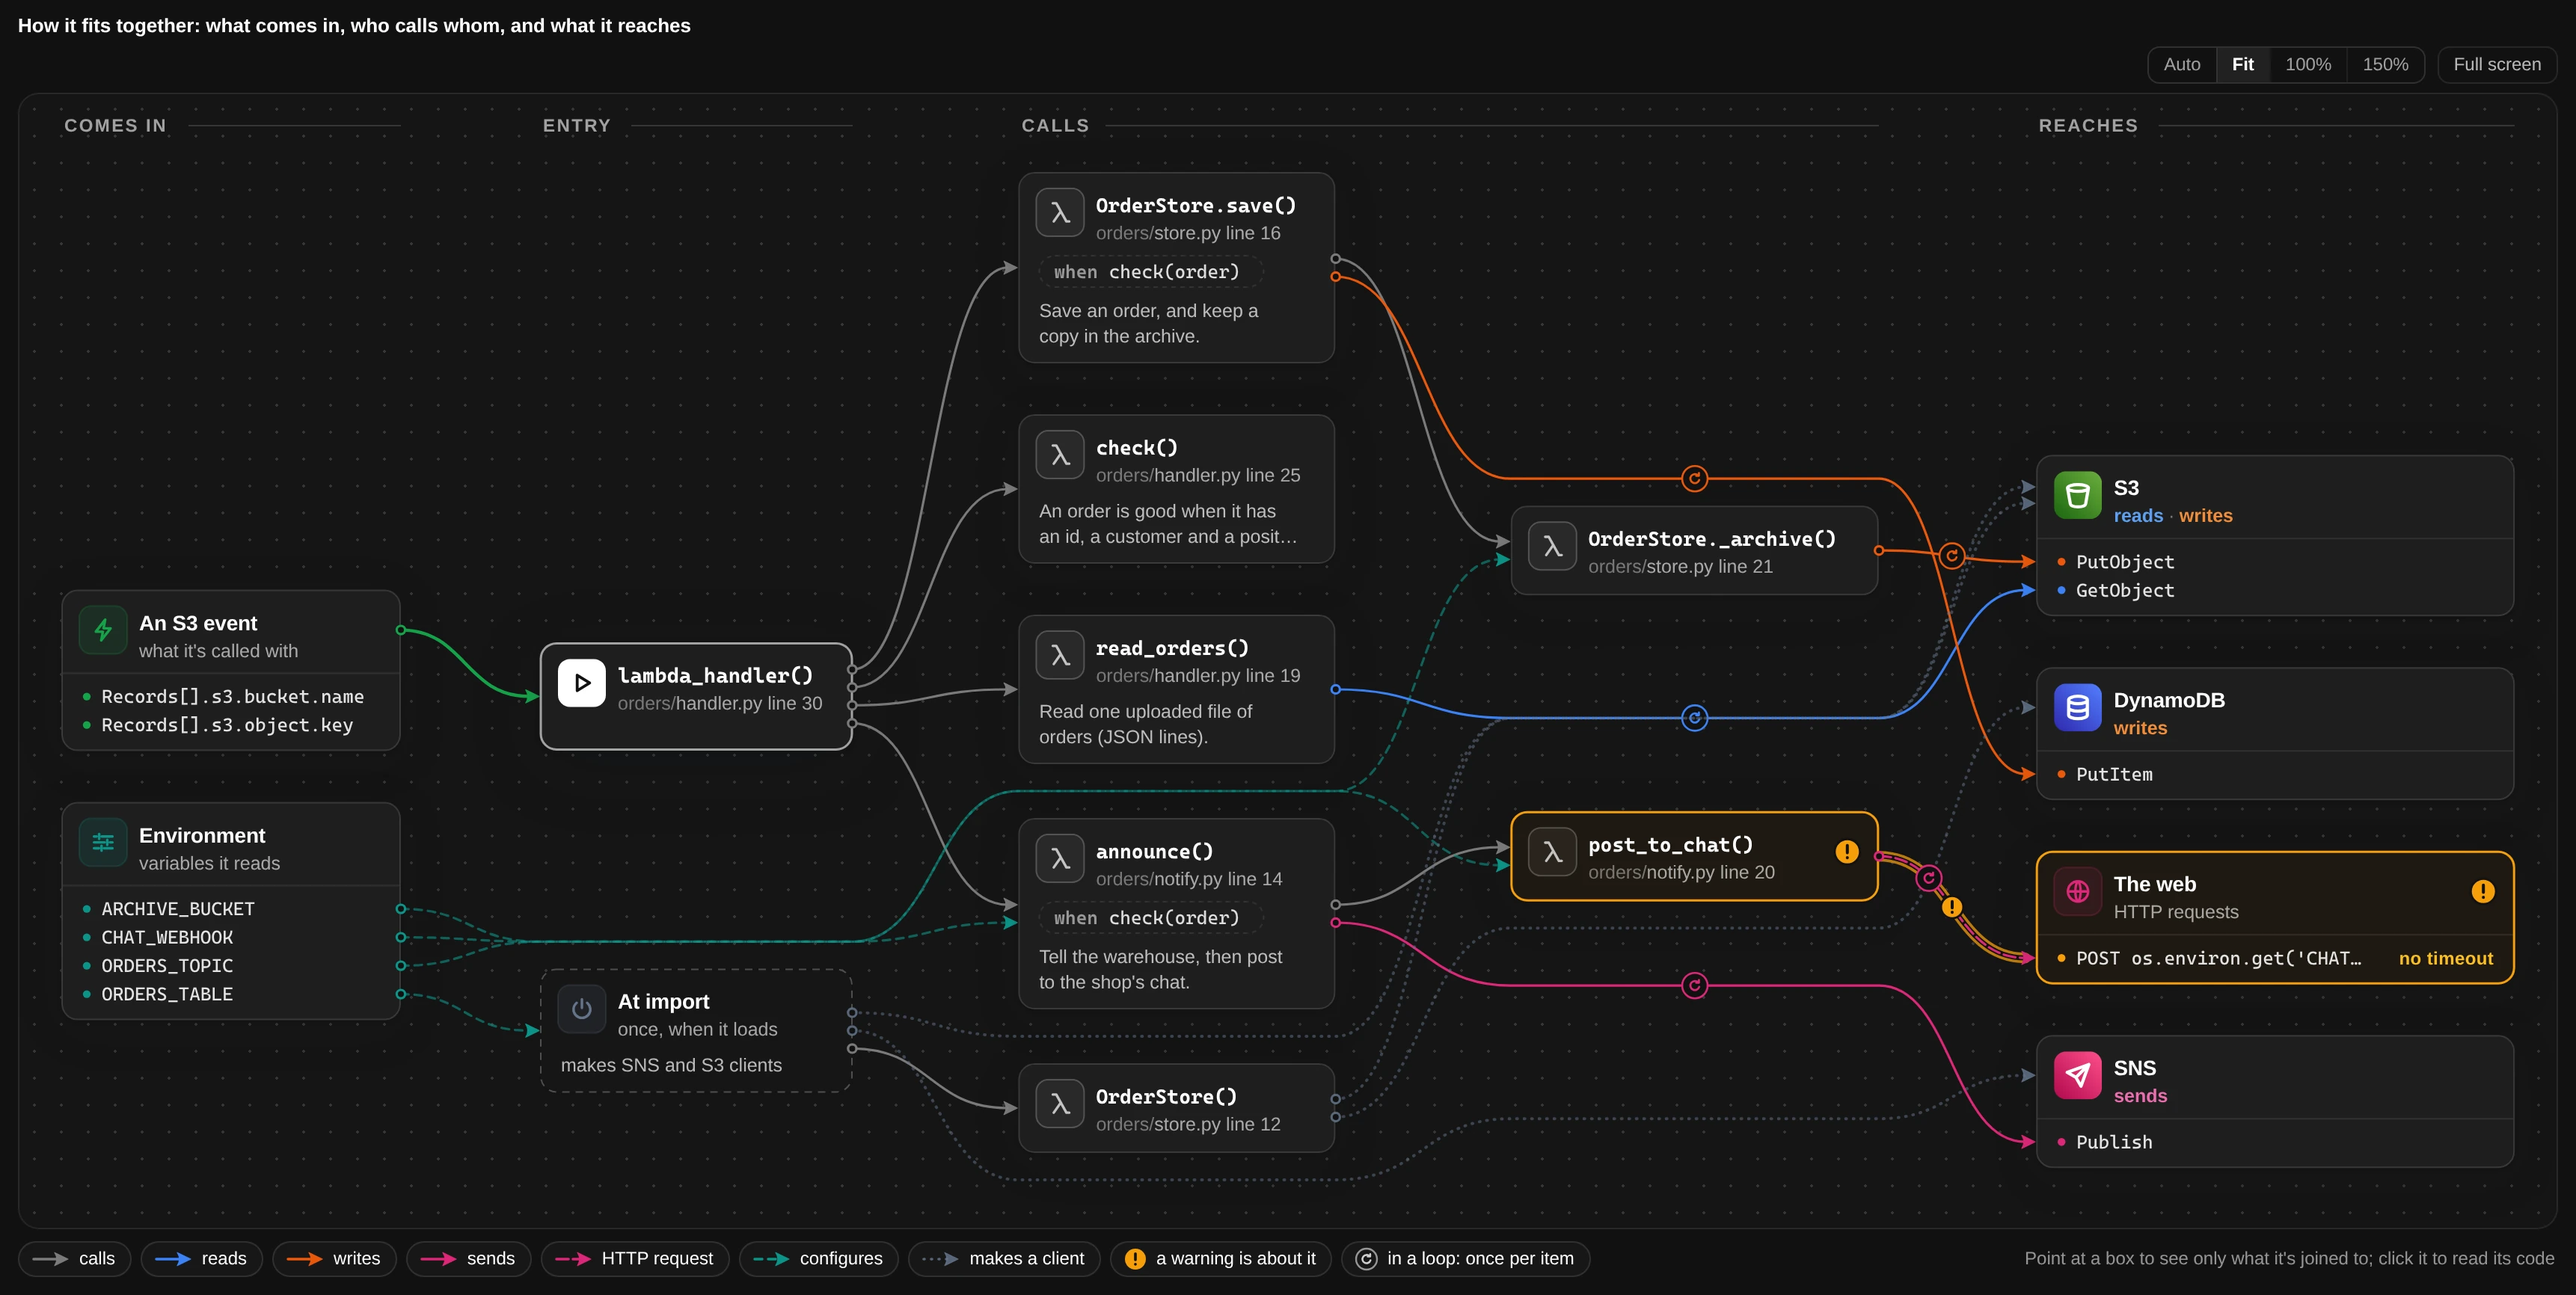
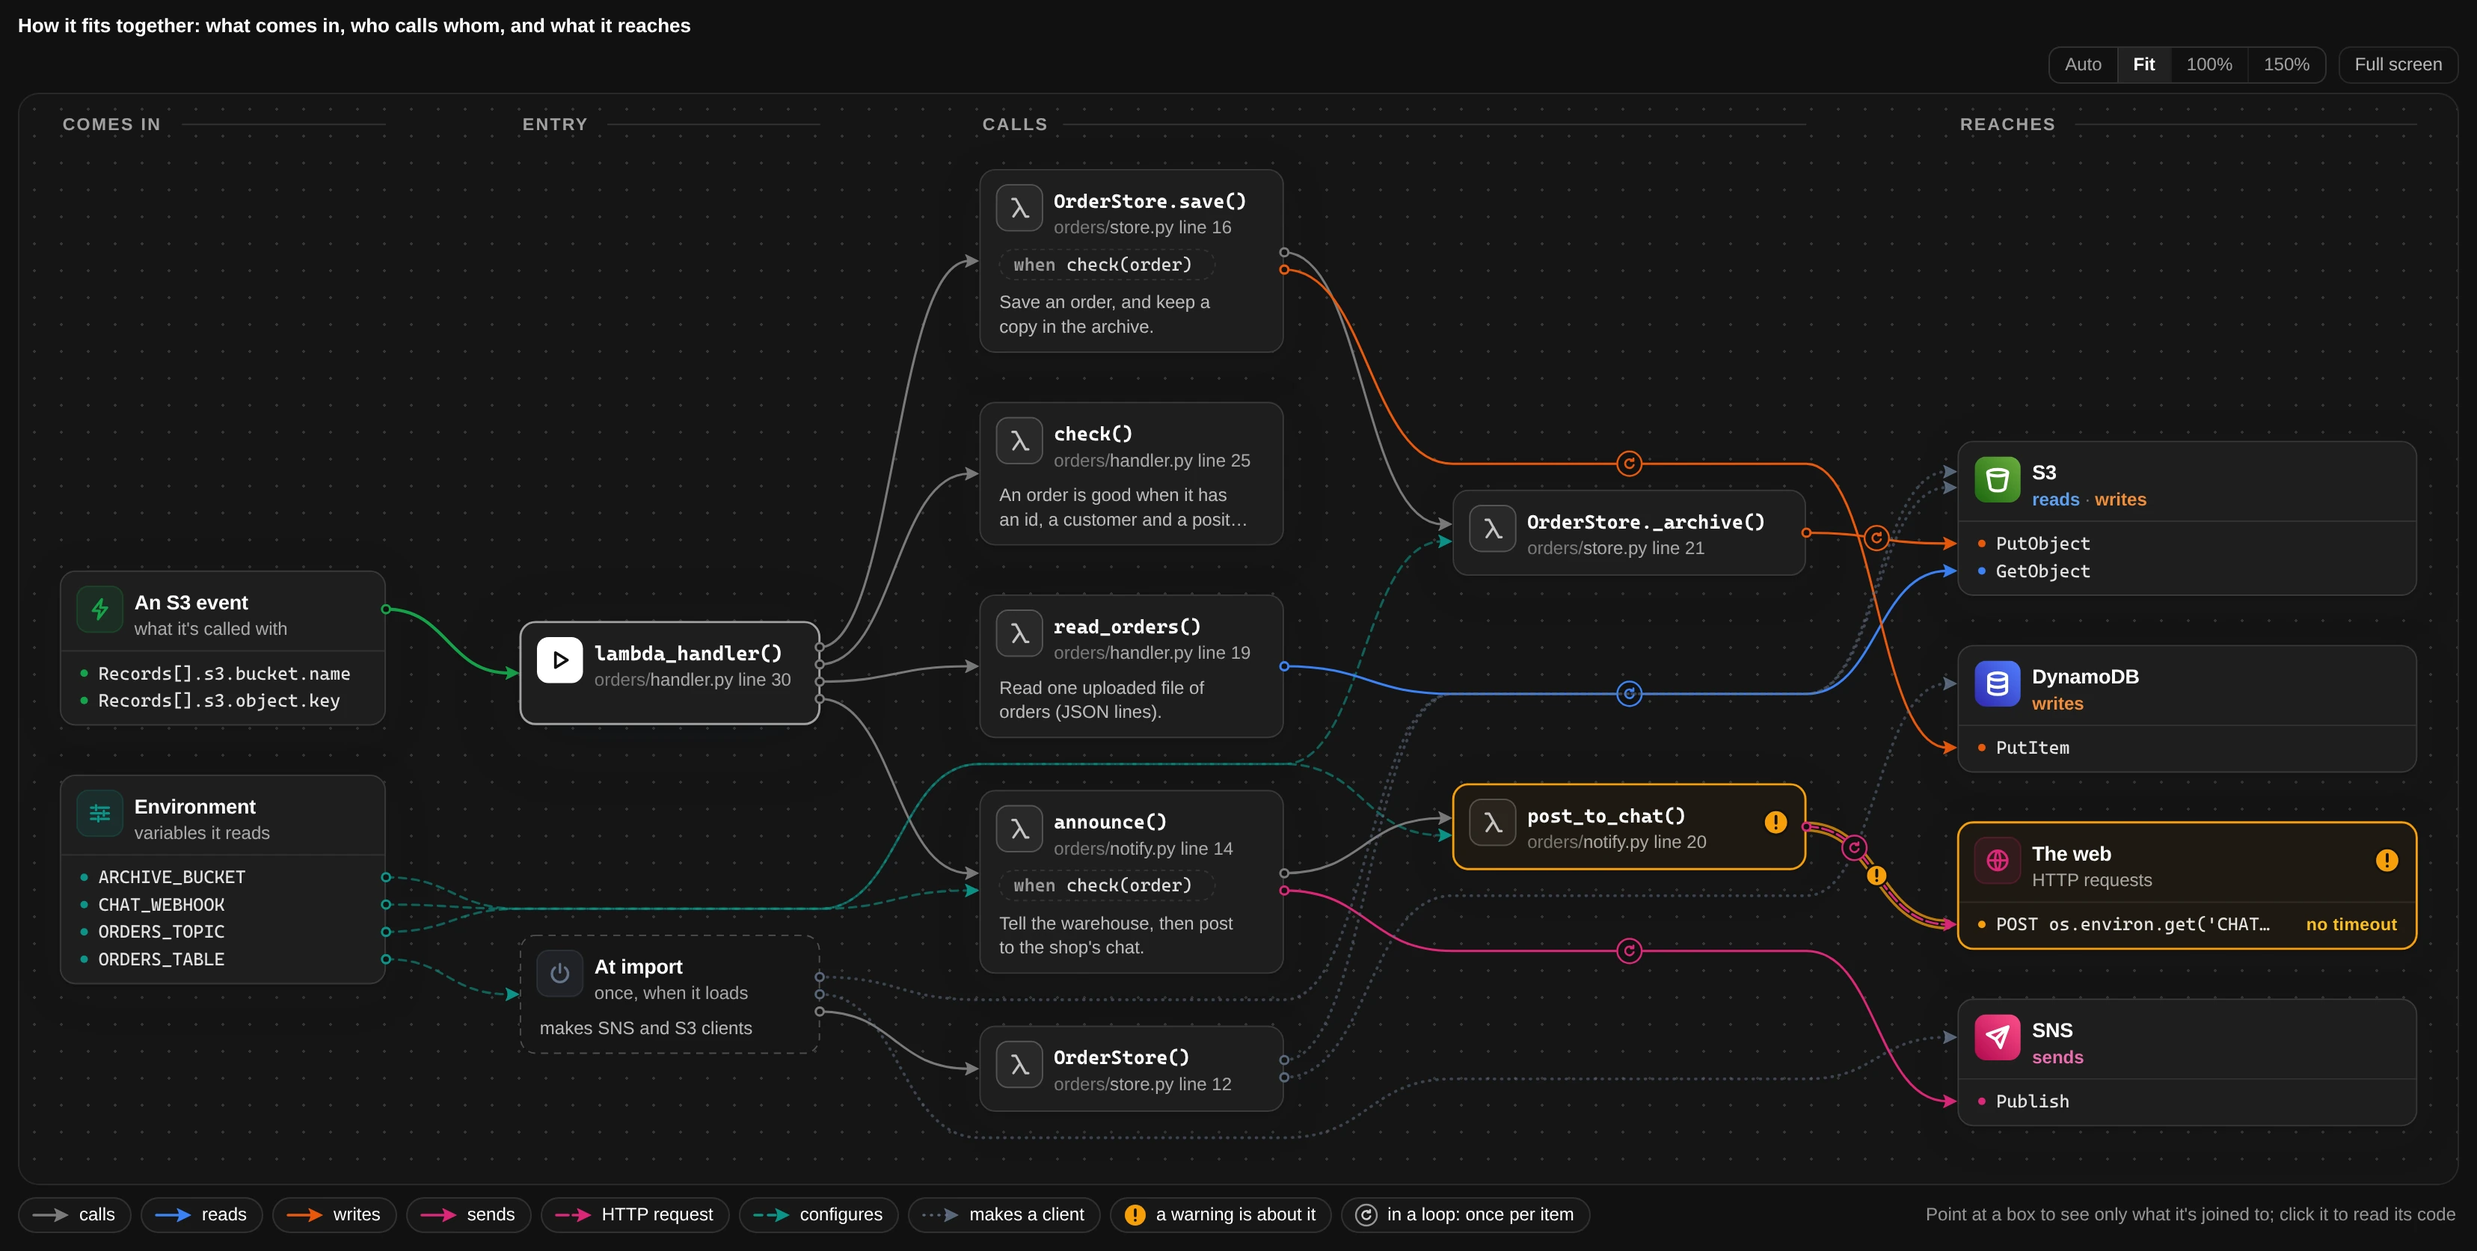
Let the graph's canvas fill the page's width, and remake the screenshots
With JavaScript the canvas was held to 1180px, so on a wide window the right of the page stayed empty while the
drawing was cut off behind a scroll bar. It's now as wide as the page. The screenshots draw the graph at its own
height, without the zoom controls, as the window they're taken in is tall.

diff --git a/scripts/shots.py b/scripts/shots.py
@@ -103,11 +103,15 @@ def shoot(name: str, blocks: list[Any], chrome: str, work: Path) -> None:
     page = work / f"{name}.html"
     html = render_page(blocks, f"code-node: {name}")
     # headless Chrome can take the picture mid fade-in: show the open tab at once. The pictures are shown shrunk
-    # (the README fits them to its column), so logos are their small marks, as on a 1x screen
+    # (the README fits them to its column), so logos are their small marks, as on a 1x screen. The graph's canvas is
+    # as tall as the window, which is tall here to fit the page: drawn at its own height, without the zoom controls
     html = html.replace(
         "</head>",
         "<style>.cnd *{animation:none!important}.cnd .cg .logo.lgf{display:none!important}"
-        ".cnd .cg .logo.lgs{display:inline!important}</style>\n</head>",
+        ".cnd .cg .logo.lgs{display:inline!important}"
+        ".cnd .cgw.pz>.cgfs:not(:checked)~.cgb .cg{height:auto!important}"
+        ".cnd .cgw.pz .cg svg{width:var(--w)!important;max-width:100%!important;height:auto!important}"
+        ".cnd .cgw.pz .pzo{display:none!important}</style>\n</head>",
         1,
     )
     if name == "steps":  # no clicks in a screenshot: open a step by moving the checked mark to it

diff --git a/src/code_node/report/style.py b/src/code_node/report/style.py
@@ -131,7 +131,7 @@ _EXTRA_CSS = """\
 .cnd .cgw.pz .cg{cursor:grab;user-select:none;-webkit-user-select:none}
 .cnd .cgw.pz .cg.pan,.cnd .cgw.pz .cg.pan *{cursor:grabbing}
 .cnd .cgw.pz .cg:focus-visible{outline:2px solid light-dark(#2563eb,#60a5fa);outline-offset:-2px}
-.cnd .cgw.pz>.cgfs:not(:checked)~.cgb{width:min(100%,1180px)}
+.cnd .cgw.pz>.cgfs:not(:checked)~.cgb{width:100%;max-width:none}
 .cnd .cgw.pz>.cgfs:not(:checked)~.cgb .cg{height:max(360px,72vh)}
 .cnd .cgw.pz .cg{display:flex}
 .cnd .cgw.pz .cg svg{flex:none;margin:auto}

diff --git a/CHANGELOG.md b/CHANGELOG.md
@@ -7,8 +7,8 @@ follow [Semantic Versioning](https://semver.org/); before 1.0, a minor version m
 ### Added
 
 - The graph moves like a canvas: drag it to pan in any direction, hold Ctrl (⌘ on a Mac) and scroll, or pinch a
-  trackpad, to zoom around the pointer, and `+`, `-` and `0` when it has focus. It stays in a box of one size, about
-  the window's height, however far it's zoomed, so the scroll bar under a tall graph is no longer the only way across;
+  trackpad, to zoom around the pointer, and `+`, `-` and `0` when it has focus. It stays in a box as wide as the page and
+  about the window's height, however far it's zoomed, so the scroll bar under a tall graph is no longer the only way across;
   **Fit** puts all of it in that box, and − and + buttons in its corner say how big it's drawn. This needs JavaScript;
   without it the graph scrolls as before.
 
